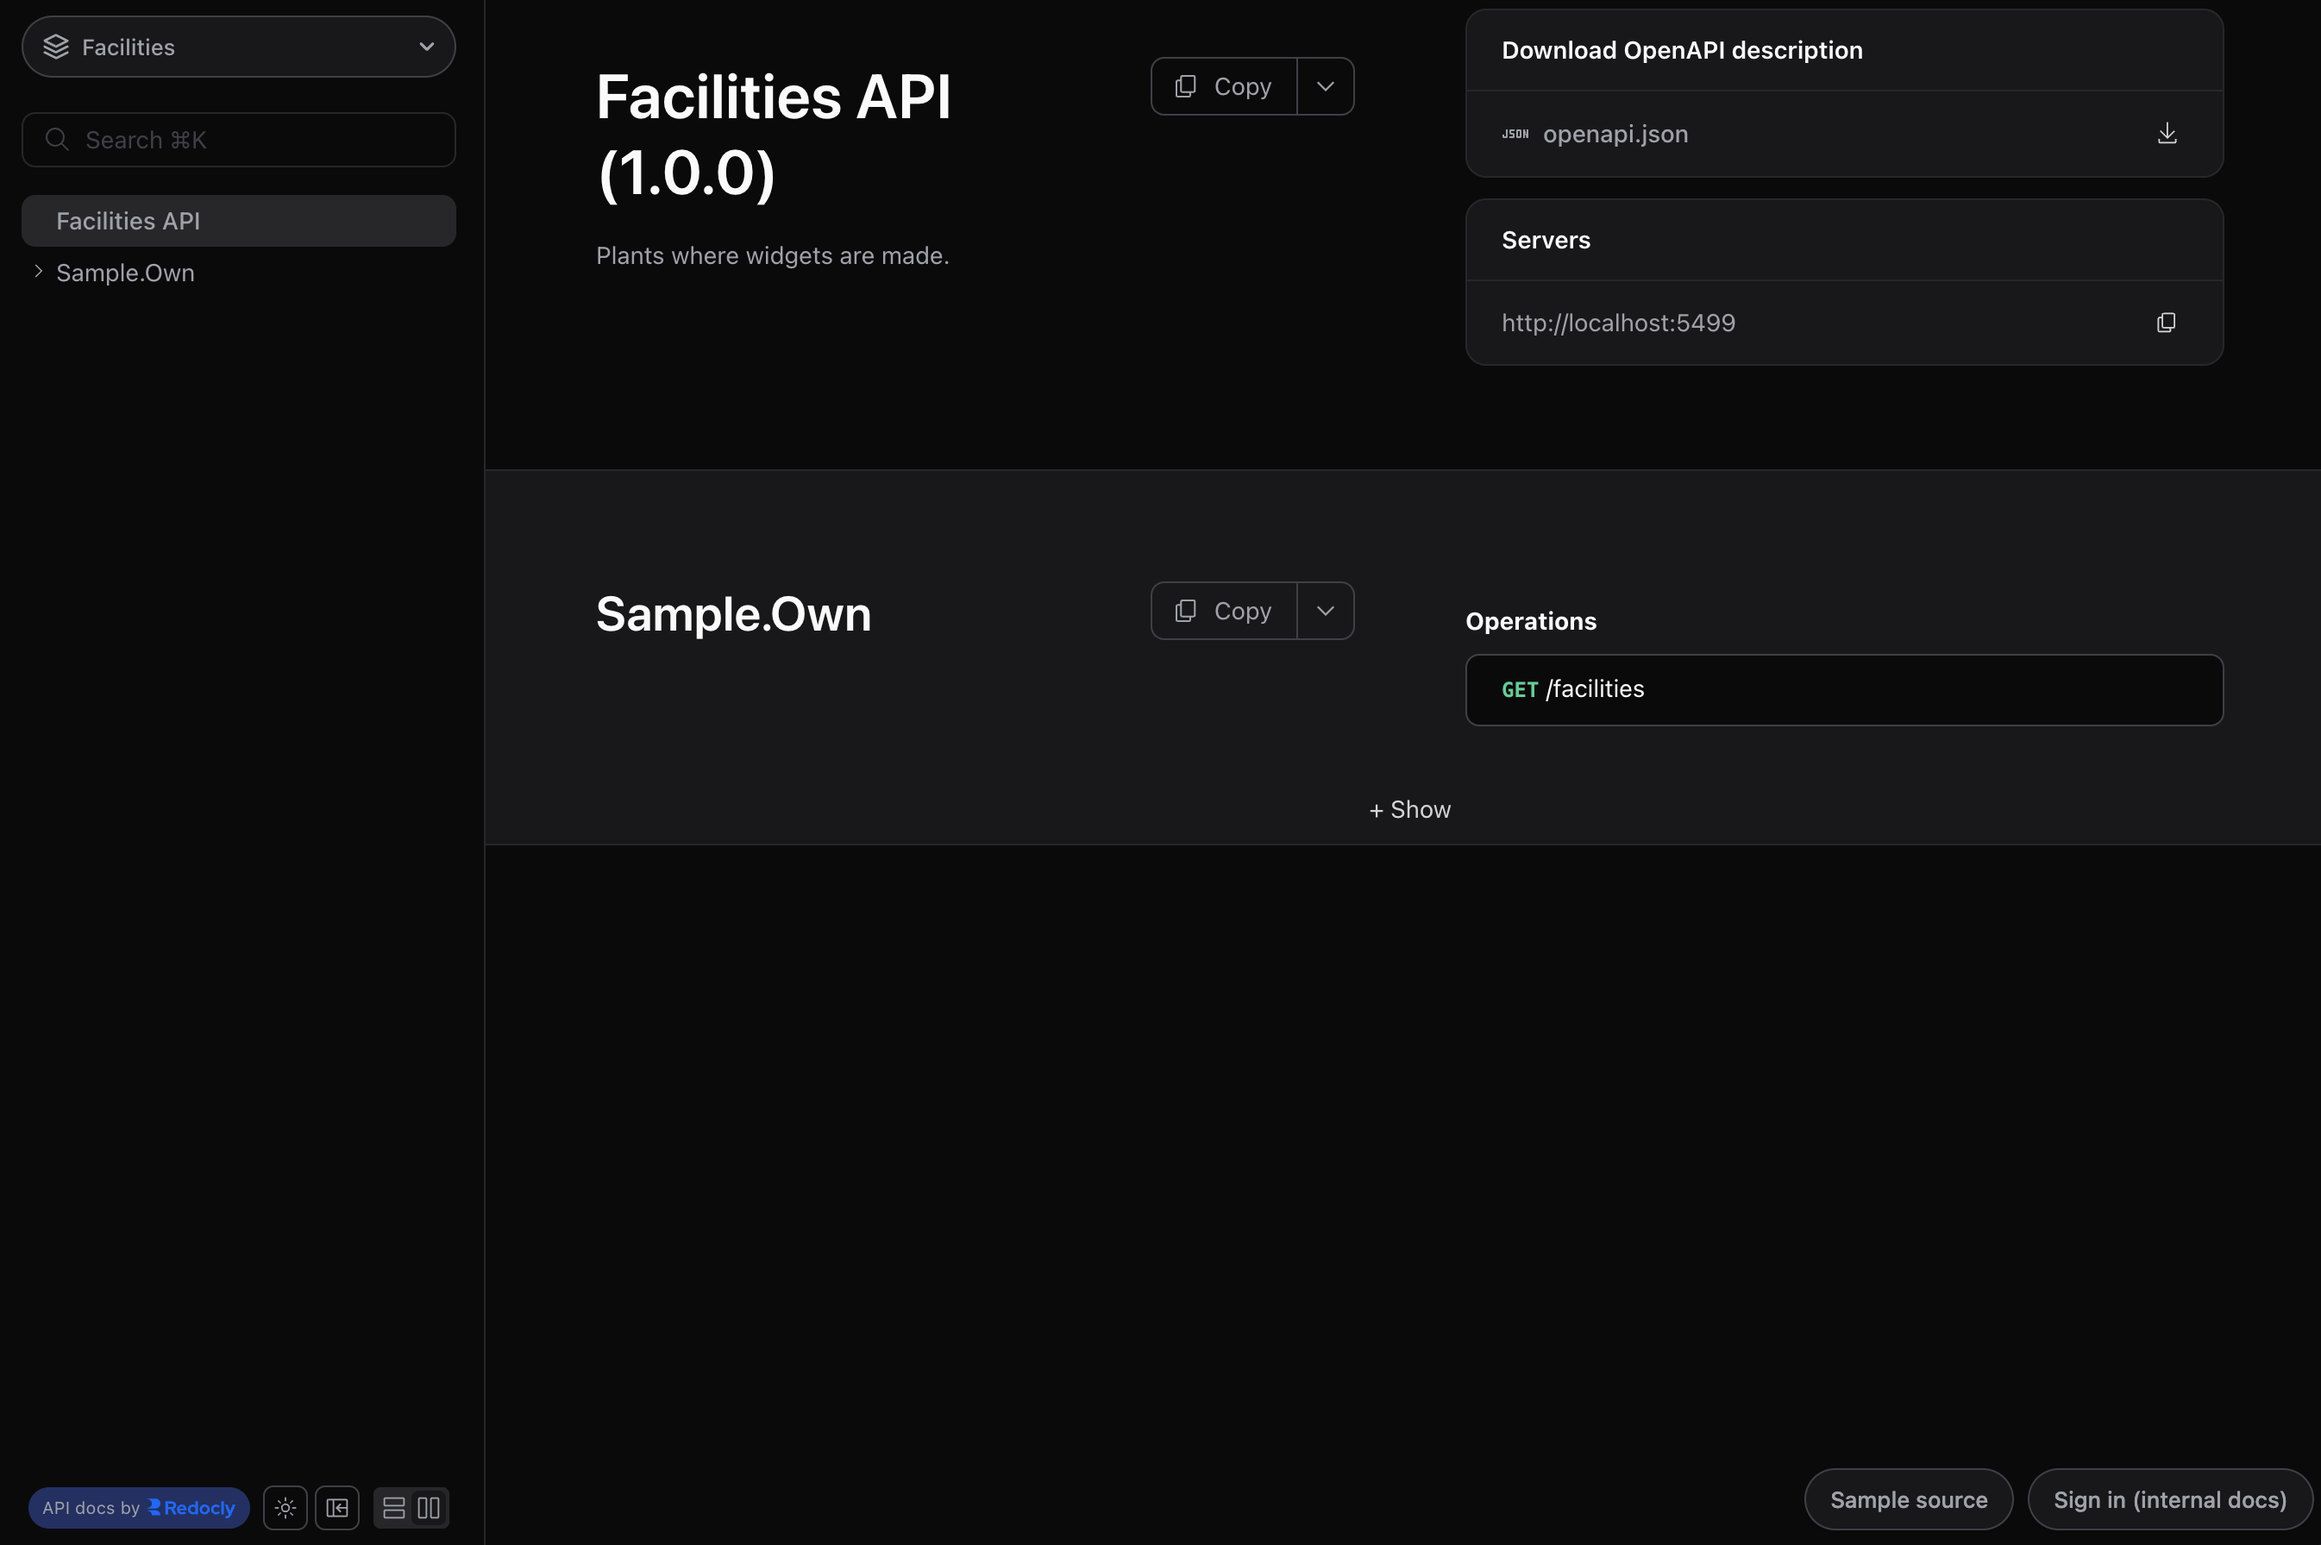
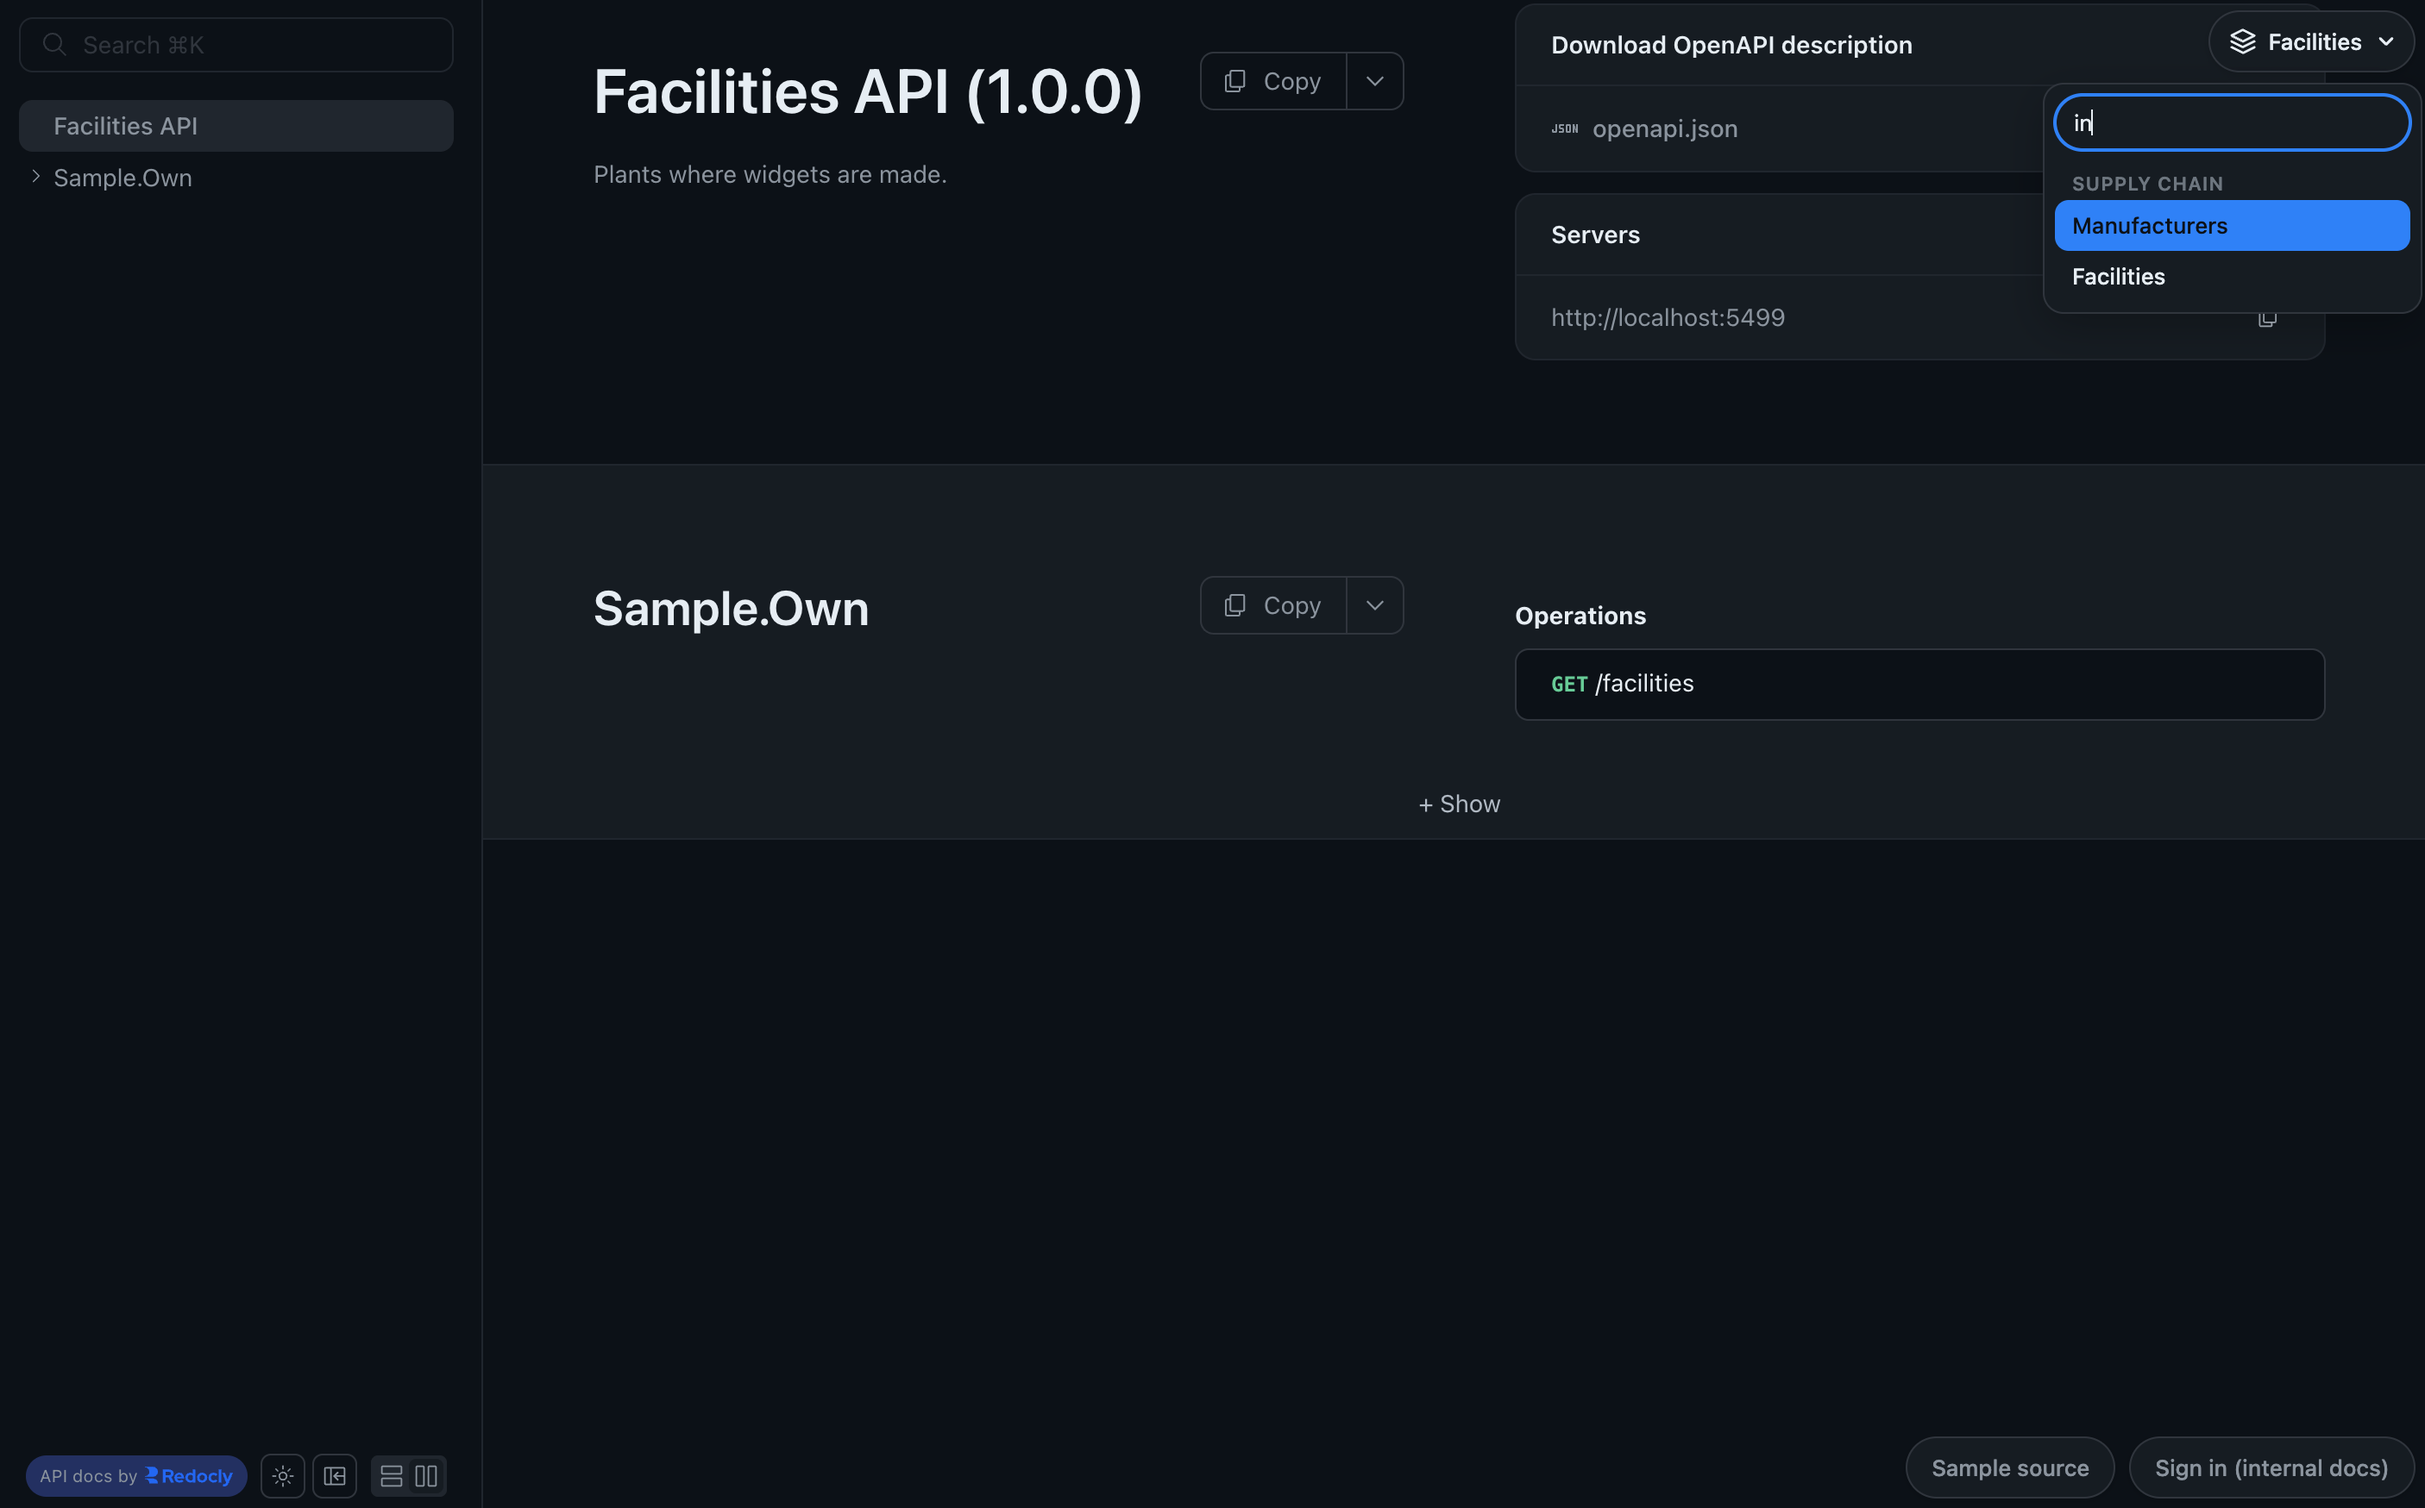
Show the ASP.NET Core host screenshot on the main README

diff --git a/README.md b/README.md
@@ -13,9 +13,9 @@ them — the definition selector Swagger UI has and ReDoc has on no version.
 [![Downloads](https://img.shields.io/nuget/dt/Hlibz.Redoc.Extensions.Core.svg?label=downloads)](https://www.nuget.org/packages/Hlibz.Redoc.Extensions.Core)
 [![License: MIT](https://img.shields.io/badge/License-MIT-blue.svg)](https://github.com/hlib-zinchenko/Hlibz.Redoc/blob/main/LICENSE)
 
-![Dark ReDoc UI screenshot](https://raw.githubusercontent.com/hlib-zinchenko/Hlibz.Redoc/main/docs/screenshot.png)
+![ReDoc 3 served by Hlibz.Redoc.AspNetCore, with the document picker](https://raw.githubusercontent.com/hlib-zinchenko/Hlibz.Redoc/main/docs/screenshot-aspnetcore.png)
 
-<sub>The dark theme on Redoc.AspNetCore, with the document picker top-right.</sub>
+<sub>ReDoc 3 on Hlibz.Redoc.AspNetCore, with the searchable, grouped document picker top-right.</sub>
 
 ```csharp
 app.UseReDoc(options =>

diff --git a/CLAUDE.md b/CLAUDE.md
@@ -396,7 +396,7 @@ takes one project at a time.
   don't add it back when the sample needs a spec URL for something. It can't be line-for-line identical to the other two: there is no
   `UseDarkTheme` here and the mapping call is `MapReDocDocuments`.
 - `samples/Sample.RedocAspNetCore/` (:5299) and `samples/Sample.Swashbuckle/` (:5399) — the same
-  app on each host, used as runnable demos and to produce the README screenshot
+  app on each host, used as runnable demos and to produce the adapter READMEs' screenshot
   (`/api-docs/widgets/`, dark via System, from the 5299 one). Their `Program.cs` files are
   line-for-line identical apart from the two `using`-level package differences: the adapters differ,
   the code a consumer writes doesn't. Both show a `~/` picker link and configure `UseSystemFonts()`
